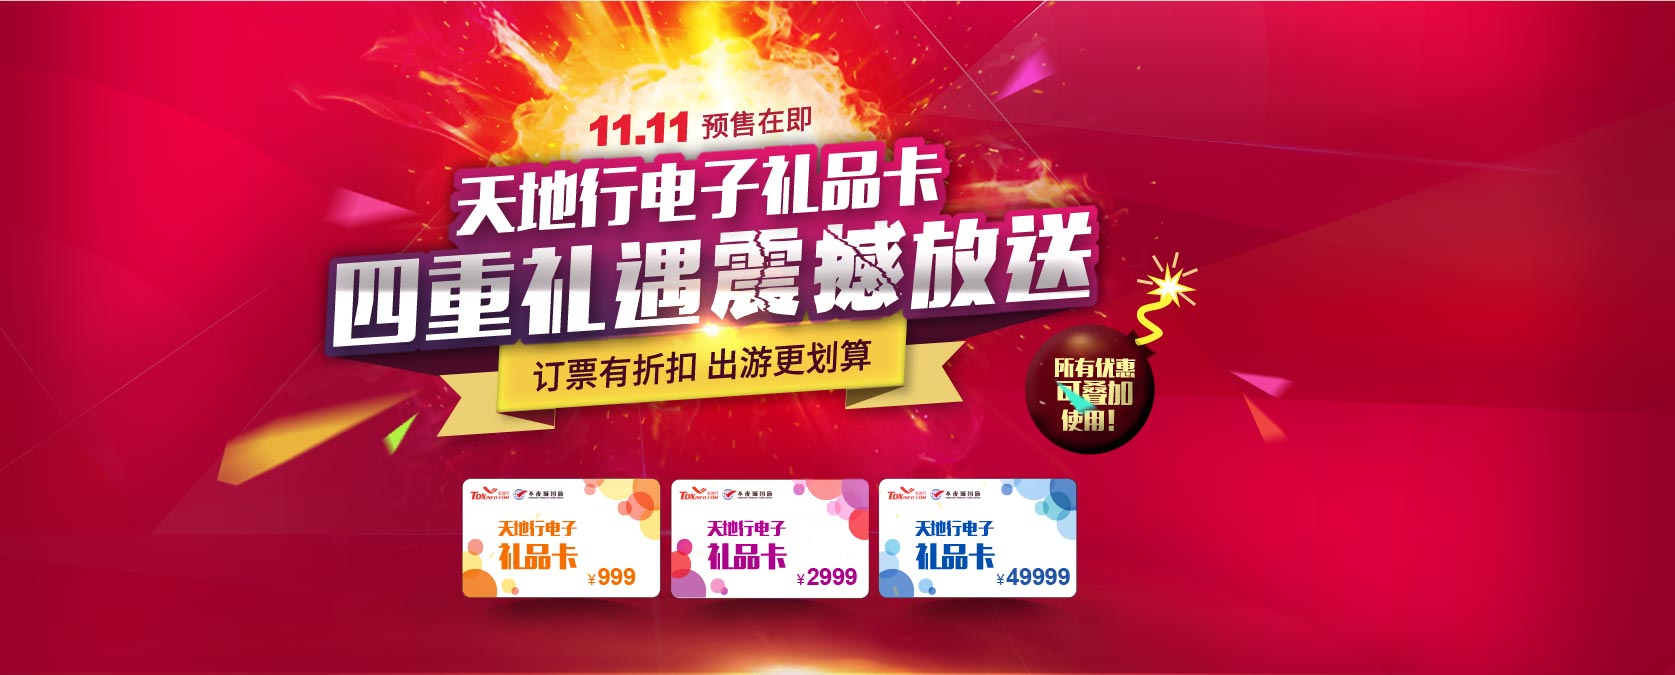
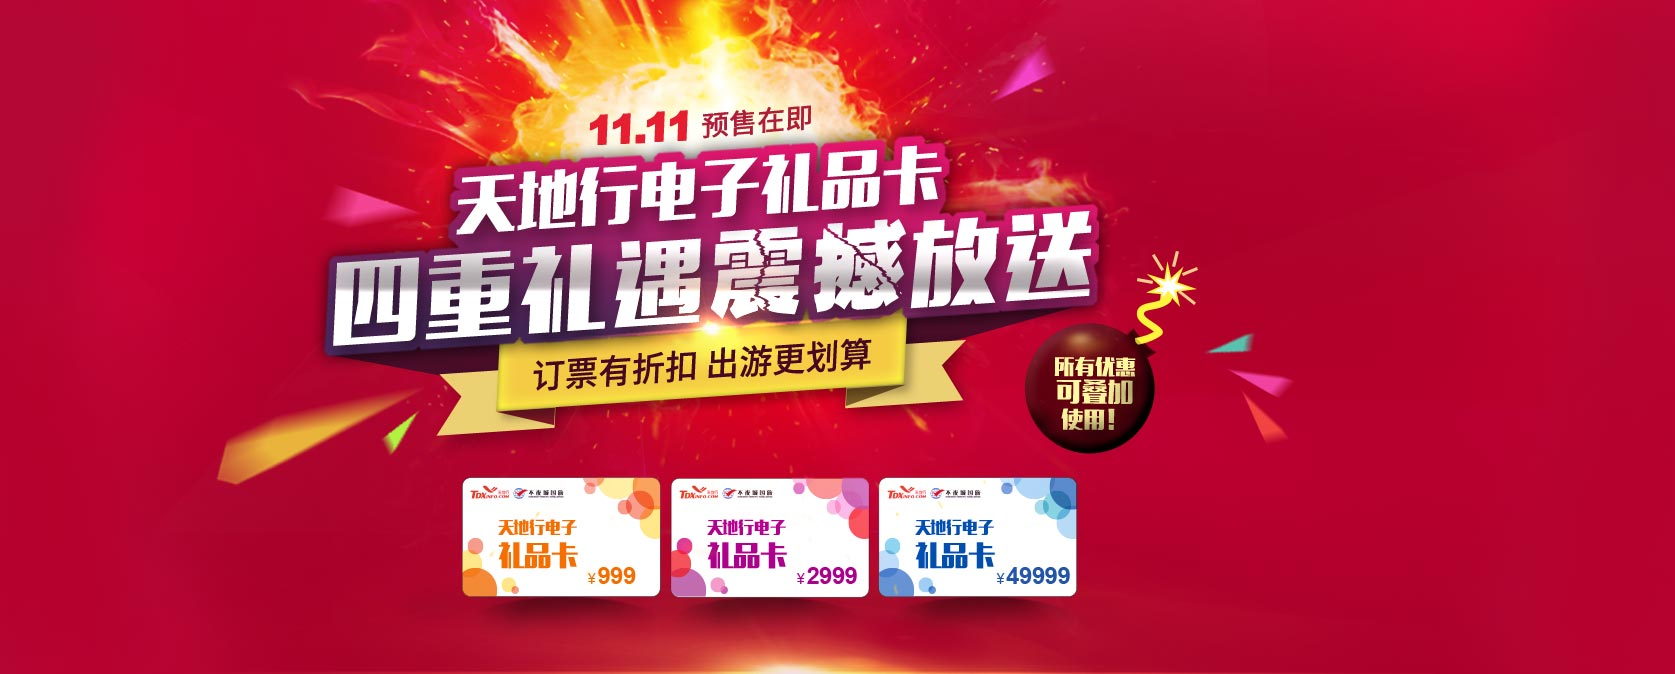
修改双11专题页

diff --git a/static/special/css/store_publicity.css b/static/special/css/store_publicity.css
@@ -1398,13 +1398,10 @@ footer.tiny-footer{ color:#969696;  background-color:#EAEAEA; border-top:1px sol
 }
 
 
-/*  扬州扬鹏大酒店专题页12至3月  */
-.bannerBg{
-    background: url("../images/shuang11BannerBg.jpg") repeat-x;
-}
+/*  双11  */
 .banner_shuang11{
-    background:url(../images/shuang11Banner.jpg) 50% 0  no-repeat;
-    height:675px;
+    background:#b50534 url(../images/shuang11Banner.jpg) 50% 0  no-repeat;
+    height:674px;
 }
 .shuang11First {
     background:url("../images/shuang11Bg.jpg") repeat-x;

diff --git a/static/special/source/shuang11.html b/static/special/source/shuang11.html
@@ -33,9 +33,7 @@
 </div>
 
 <section class="main-body clearfix">
-    <div class="bannerBg">
-        <div class="banner_shuang11"></div>
-    </div>
+    <div class="banner_shuang11"></div>
    <div class="shuang11First"> <!--body start-->
         <div class="shuang11_block01"></div>
    </div>
